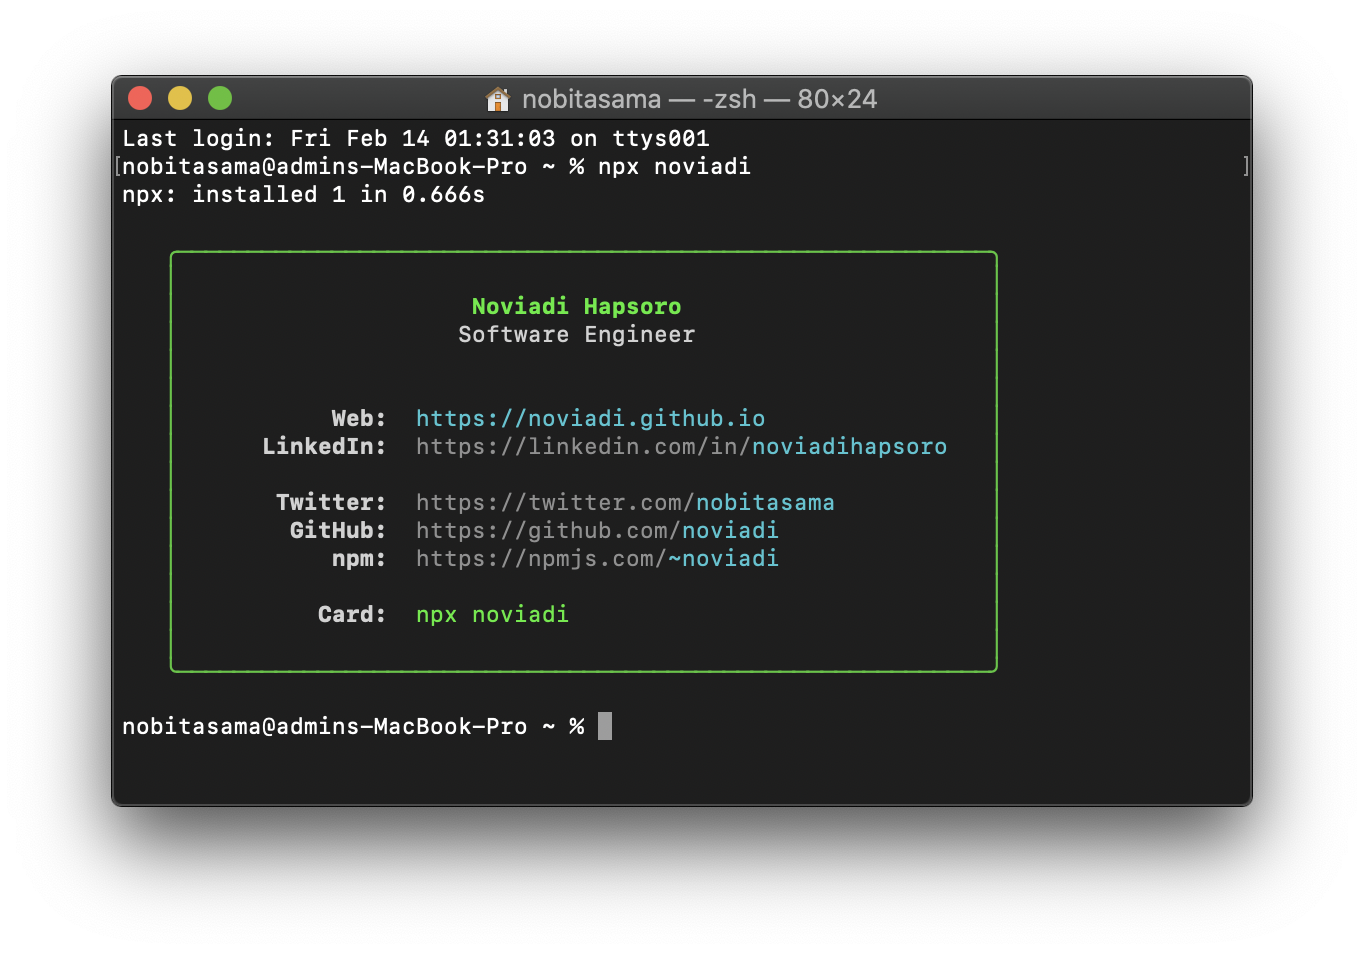
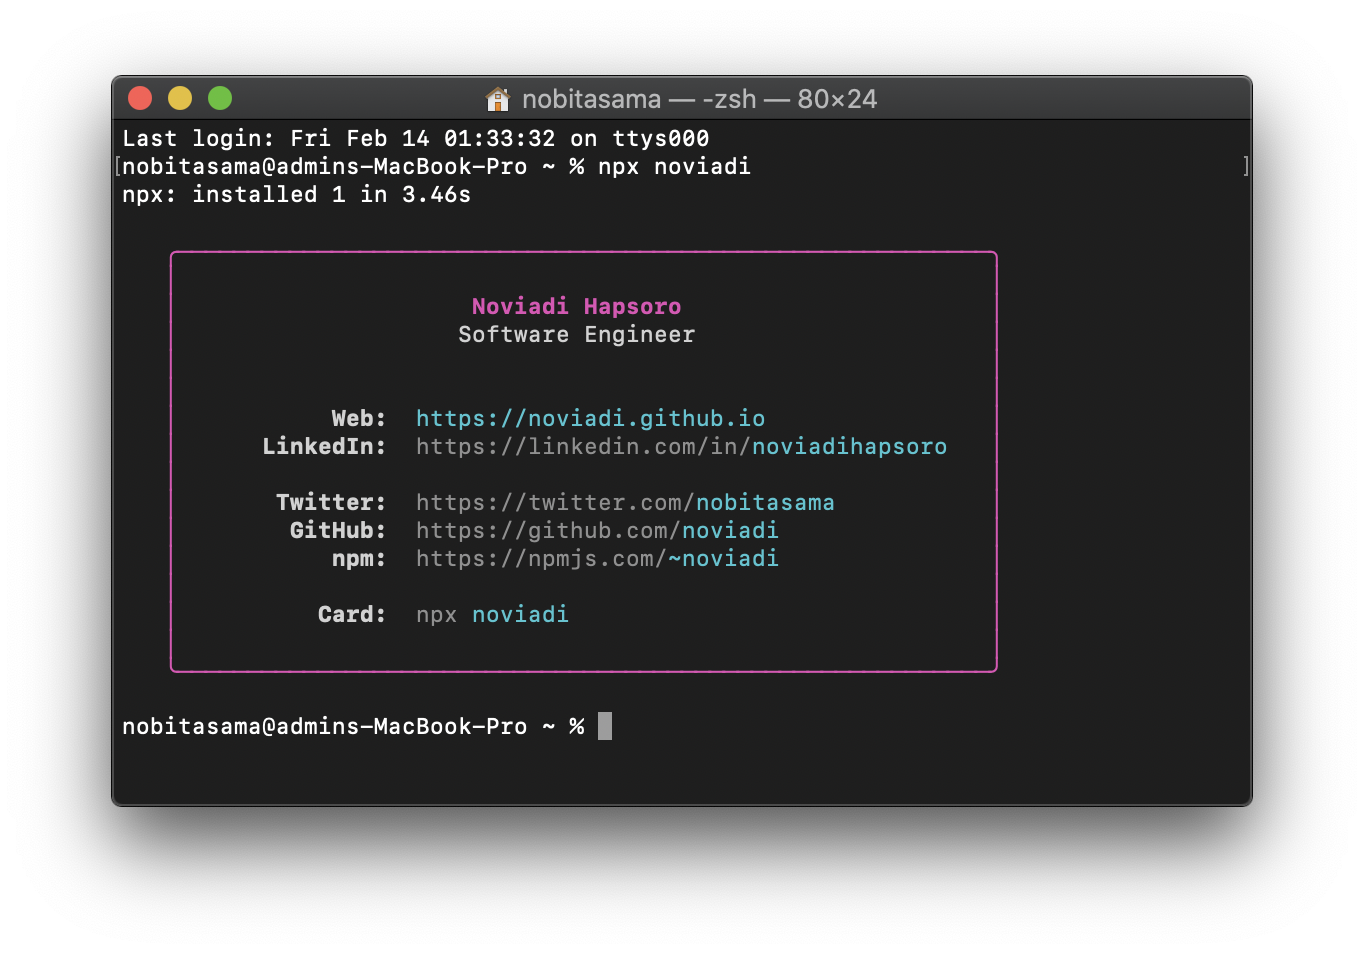
Apply color scheme

diff --git a/build.js b/build.js
@@ -11,15 +11,18 @@ const options = {
   borderStyle: 'round'
 };
 
+const primaryChalk = chalk.rgb(172, 20, 90);
+const secondaryChalk = chalk.cyan;
+
 const data = {
-  name: chalk.greenBright.bold('                  Noviadi Hapsoro'),
+  name: primaryChalk.bold('                  Noviadi Hapsoro'),
   work: chalk.white('Software Engineer'),
-  twitter: chalk.gray('https://twitter.com/') + chalk.cyan('nobitasama'),
-  npm: chalk.gray('https://npmjs.com/') + chalk.cyan('~noviadi'),
-  github: chalk.gray('https://github.com/') + chalk.cyan('noviadi'),
-  linkedin: chalk.gray('https://linkedin.com/in/') + chalk.cyan('noviadihapsoro'),
-  web: chalk.cyan('https://noviadi.github.io'),
-  npx: chalk.greenBright('npx noviadi'),
+  twitter: chalk.gray('https://twitter.com/') + secondaryChalk('nobitasama'),
+  npm: chalk.gray('https://npmjs.com/') + secondaryChalk('~noviadi'),
+  github: chalk.gray('https://github.com/') + secondaryChalk('noviadi'),
+  linkedin: chalk.gray('https://linkedin.com/in/') + secondaryChalk('noviadihapsoro'),
+  web: secondaryChalk('https://noviadi.github.io'),
+  npx: chalk.gray('npx ') + secondaryChalk('noviadi'),
   labelWork: chalk.white.bold('       Work:'),
   labelTwitter: chalk.white.bold('    Twitter:'),
   labelnpm: chalk.white.bold('        npm:'),
@@ -49,5 +52,5 @@ const output = heading + newline + // data.name
                npming + newline + newline + // data.labelnpm + data.npm
                carding // data.labelCard + data.npx
 
-fs.writeFileSync(path.join(__dirname, 'bin/output'), chalk.green(boxen(output, options)))
+fs.writeFileSync(path.join(__dirname, 'bin/output'), primaryChalk(boxen(output, options)))
 
